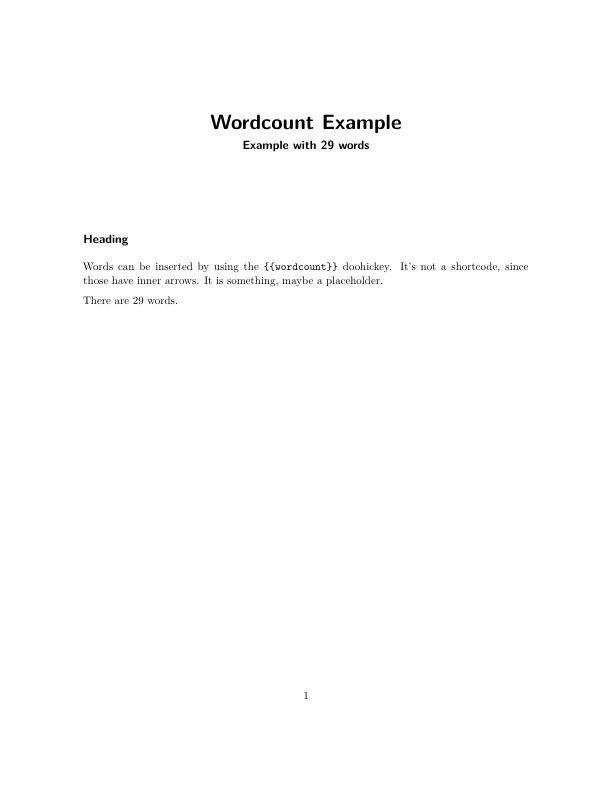
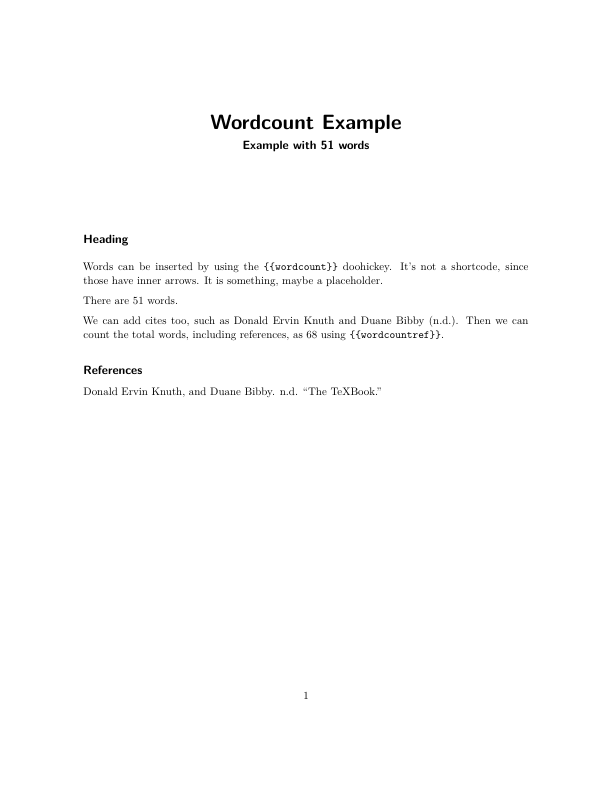
support counting references, e.g. for apsr

diff --git a/README.md b/README.md
@@ -2,6 +2,7 @@
 
 This extension *inserts* word counts into Quarto documents in the place of `{{wordcount}}`.
 Word counts can be inserted in the body or metadata (YAML header) of a document.
+To include the number of words in the references, use `{{wordcountref}}`.
 
 You may also be interested in:
 
@@ -19,12 +20,12 @@ If you're using version control, you will want to check in this directory.
 
 ## Using
 
-After installing, simply add `{{wordcount}}` in your document (without the `tics`).
+After installing, simply add `{{wordcount}}` or `{{wordcountref}}` in your document (without the `tics`).
 Make sure there are spaces around it.
 For example you could write:
 > There are {{wordcount}} words in this document.
 
-and it will replace `{{wordcount}}` with it's estimate.
+and it will replace `{{wordcount}}` with its estimate.
 
 ## Example
 
